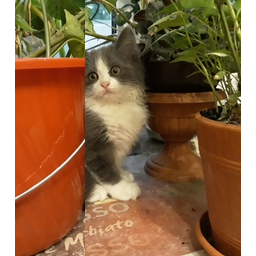
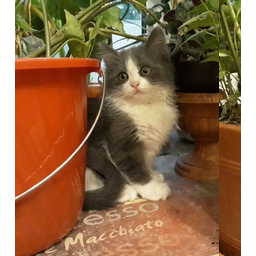
fix aligmnent

diff --git a/README.md b/README.md
@@ -67,7 +67,7 @@ image_append(c(image_append(img_1_2), image_append(img_3_4)),
              stack = TRUE)
 ```
 
-<img src="man/figures/README-aug-1.png" width="100%" />
+<img src="man/figures/README-aug-1.png" width="100%" style="display: block; margin: auto;" />
 
 You can also use augmentation not listed in `?aug_img`:
 
